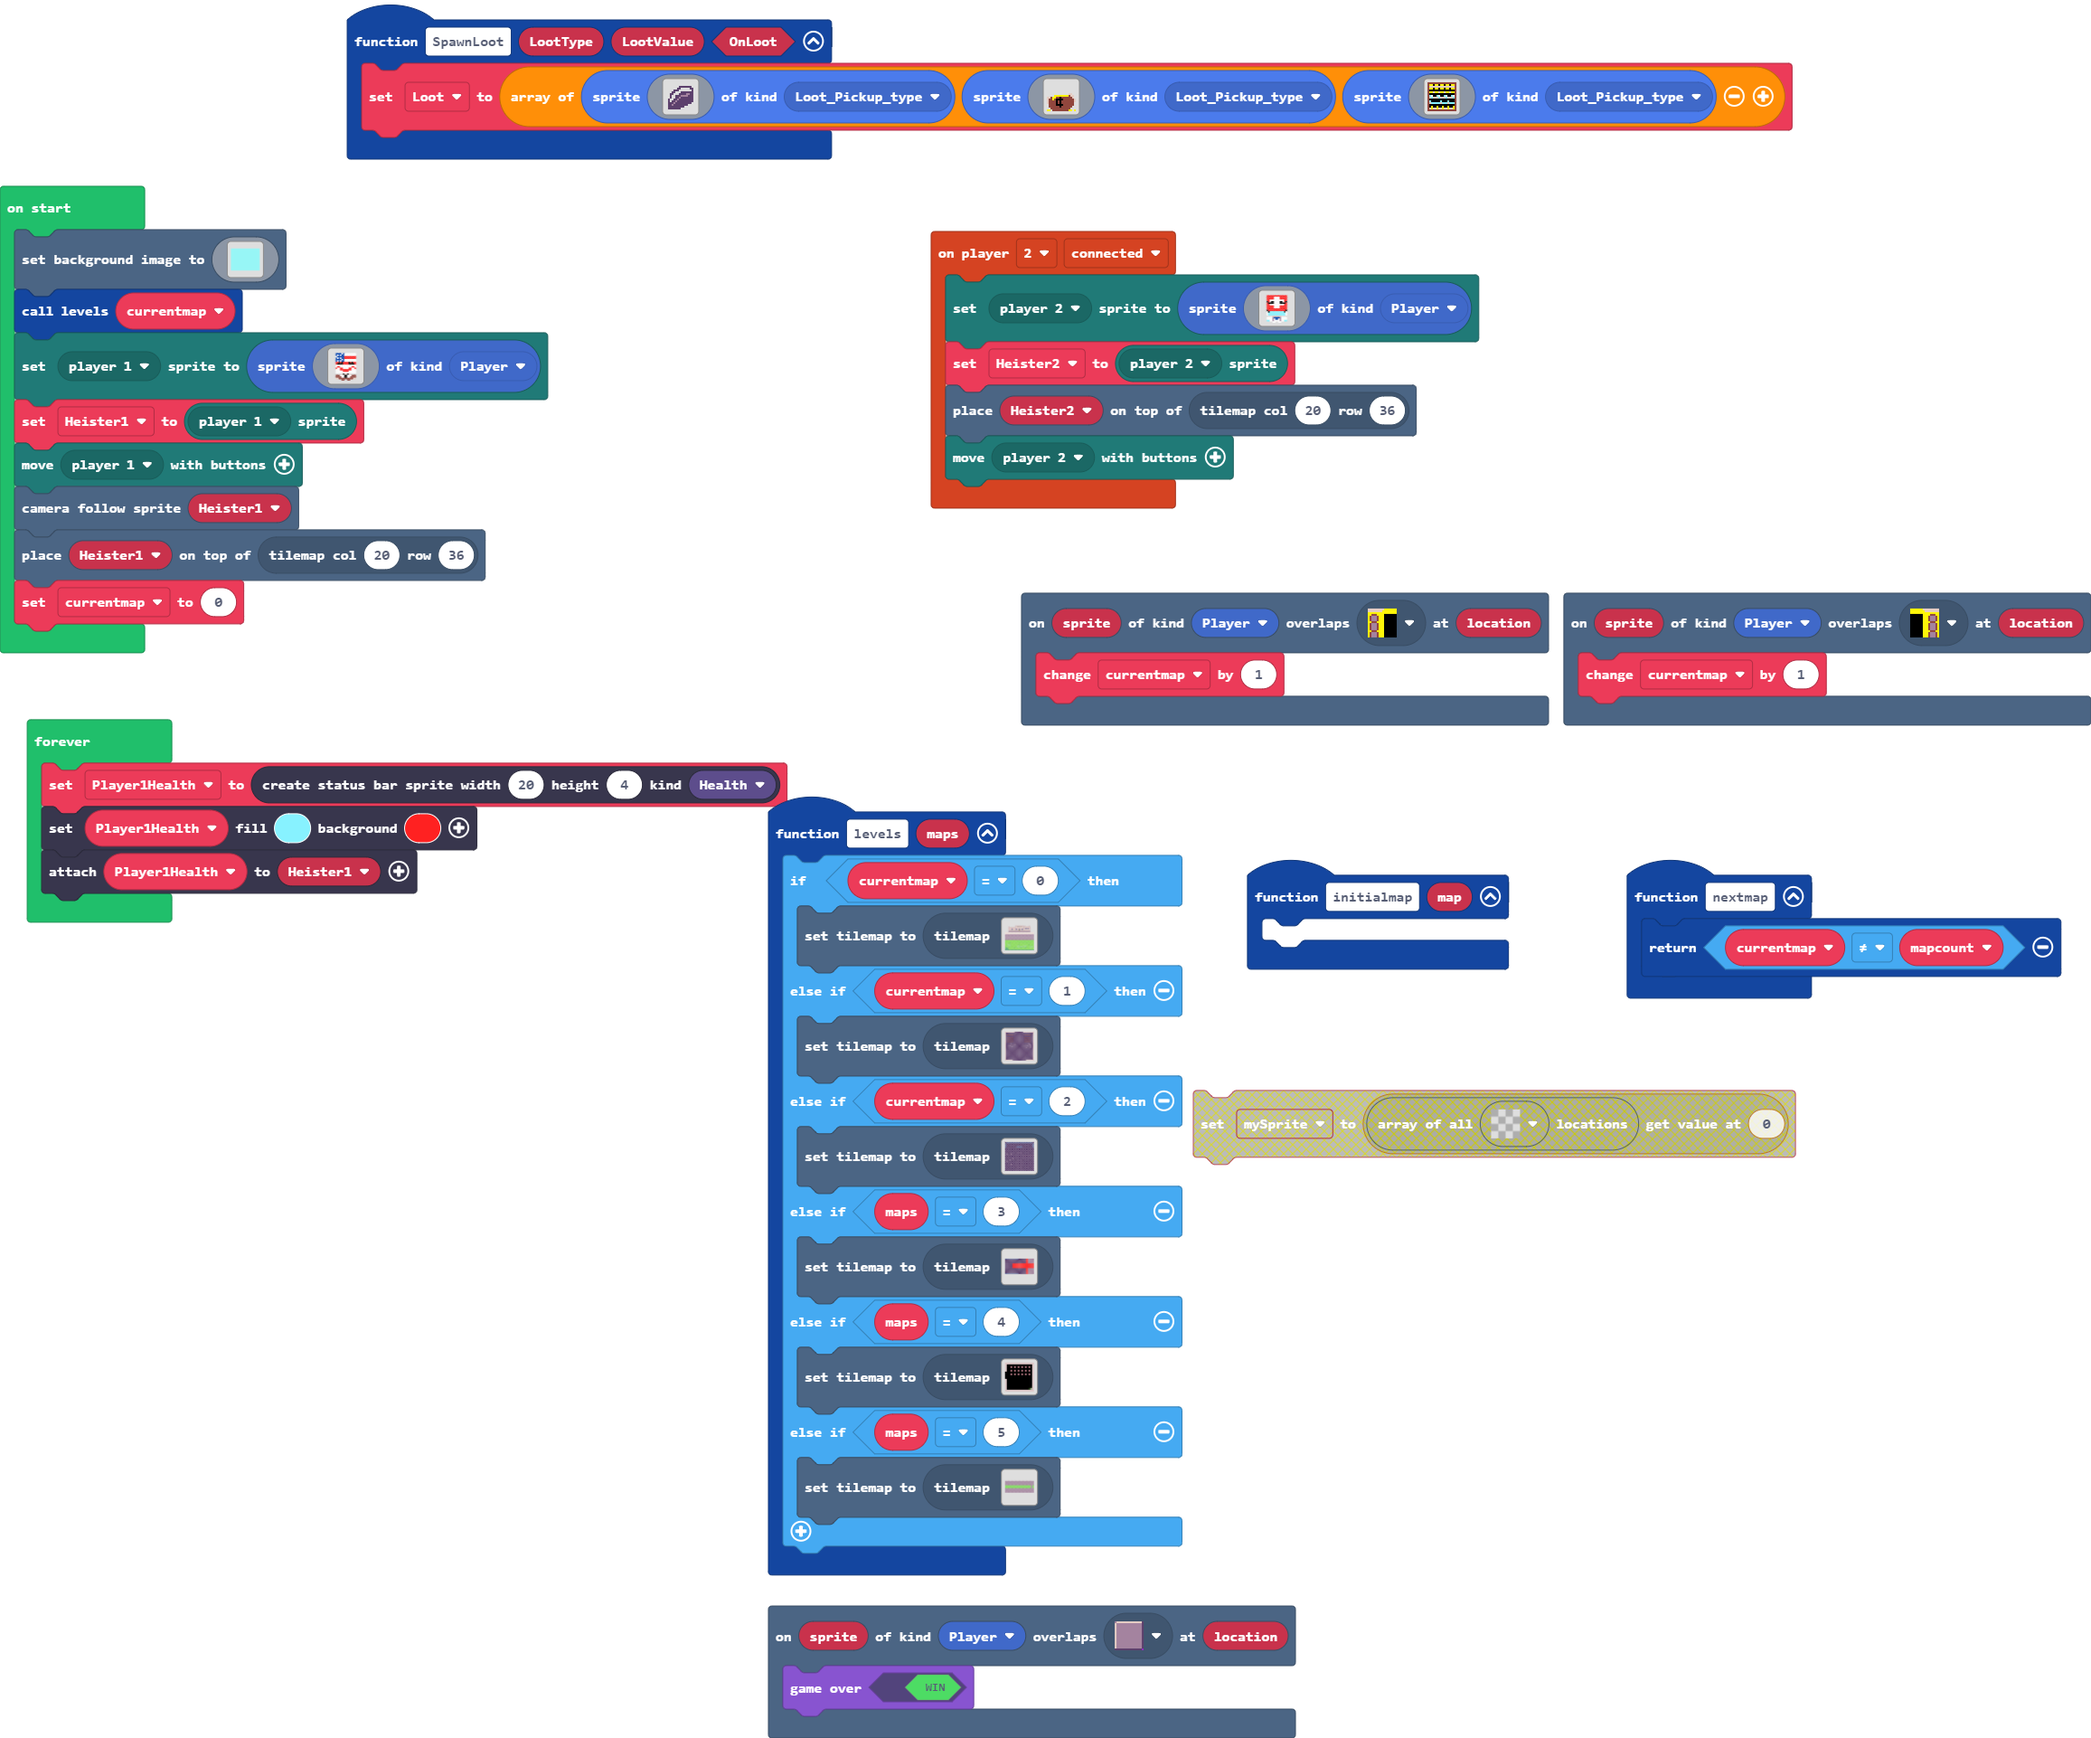
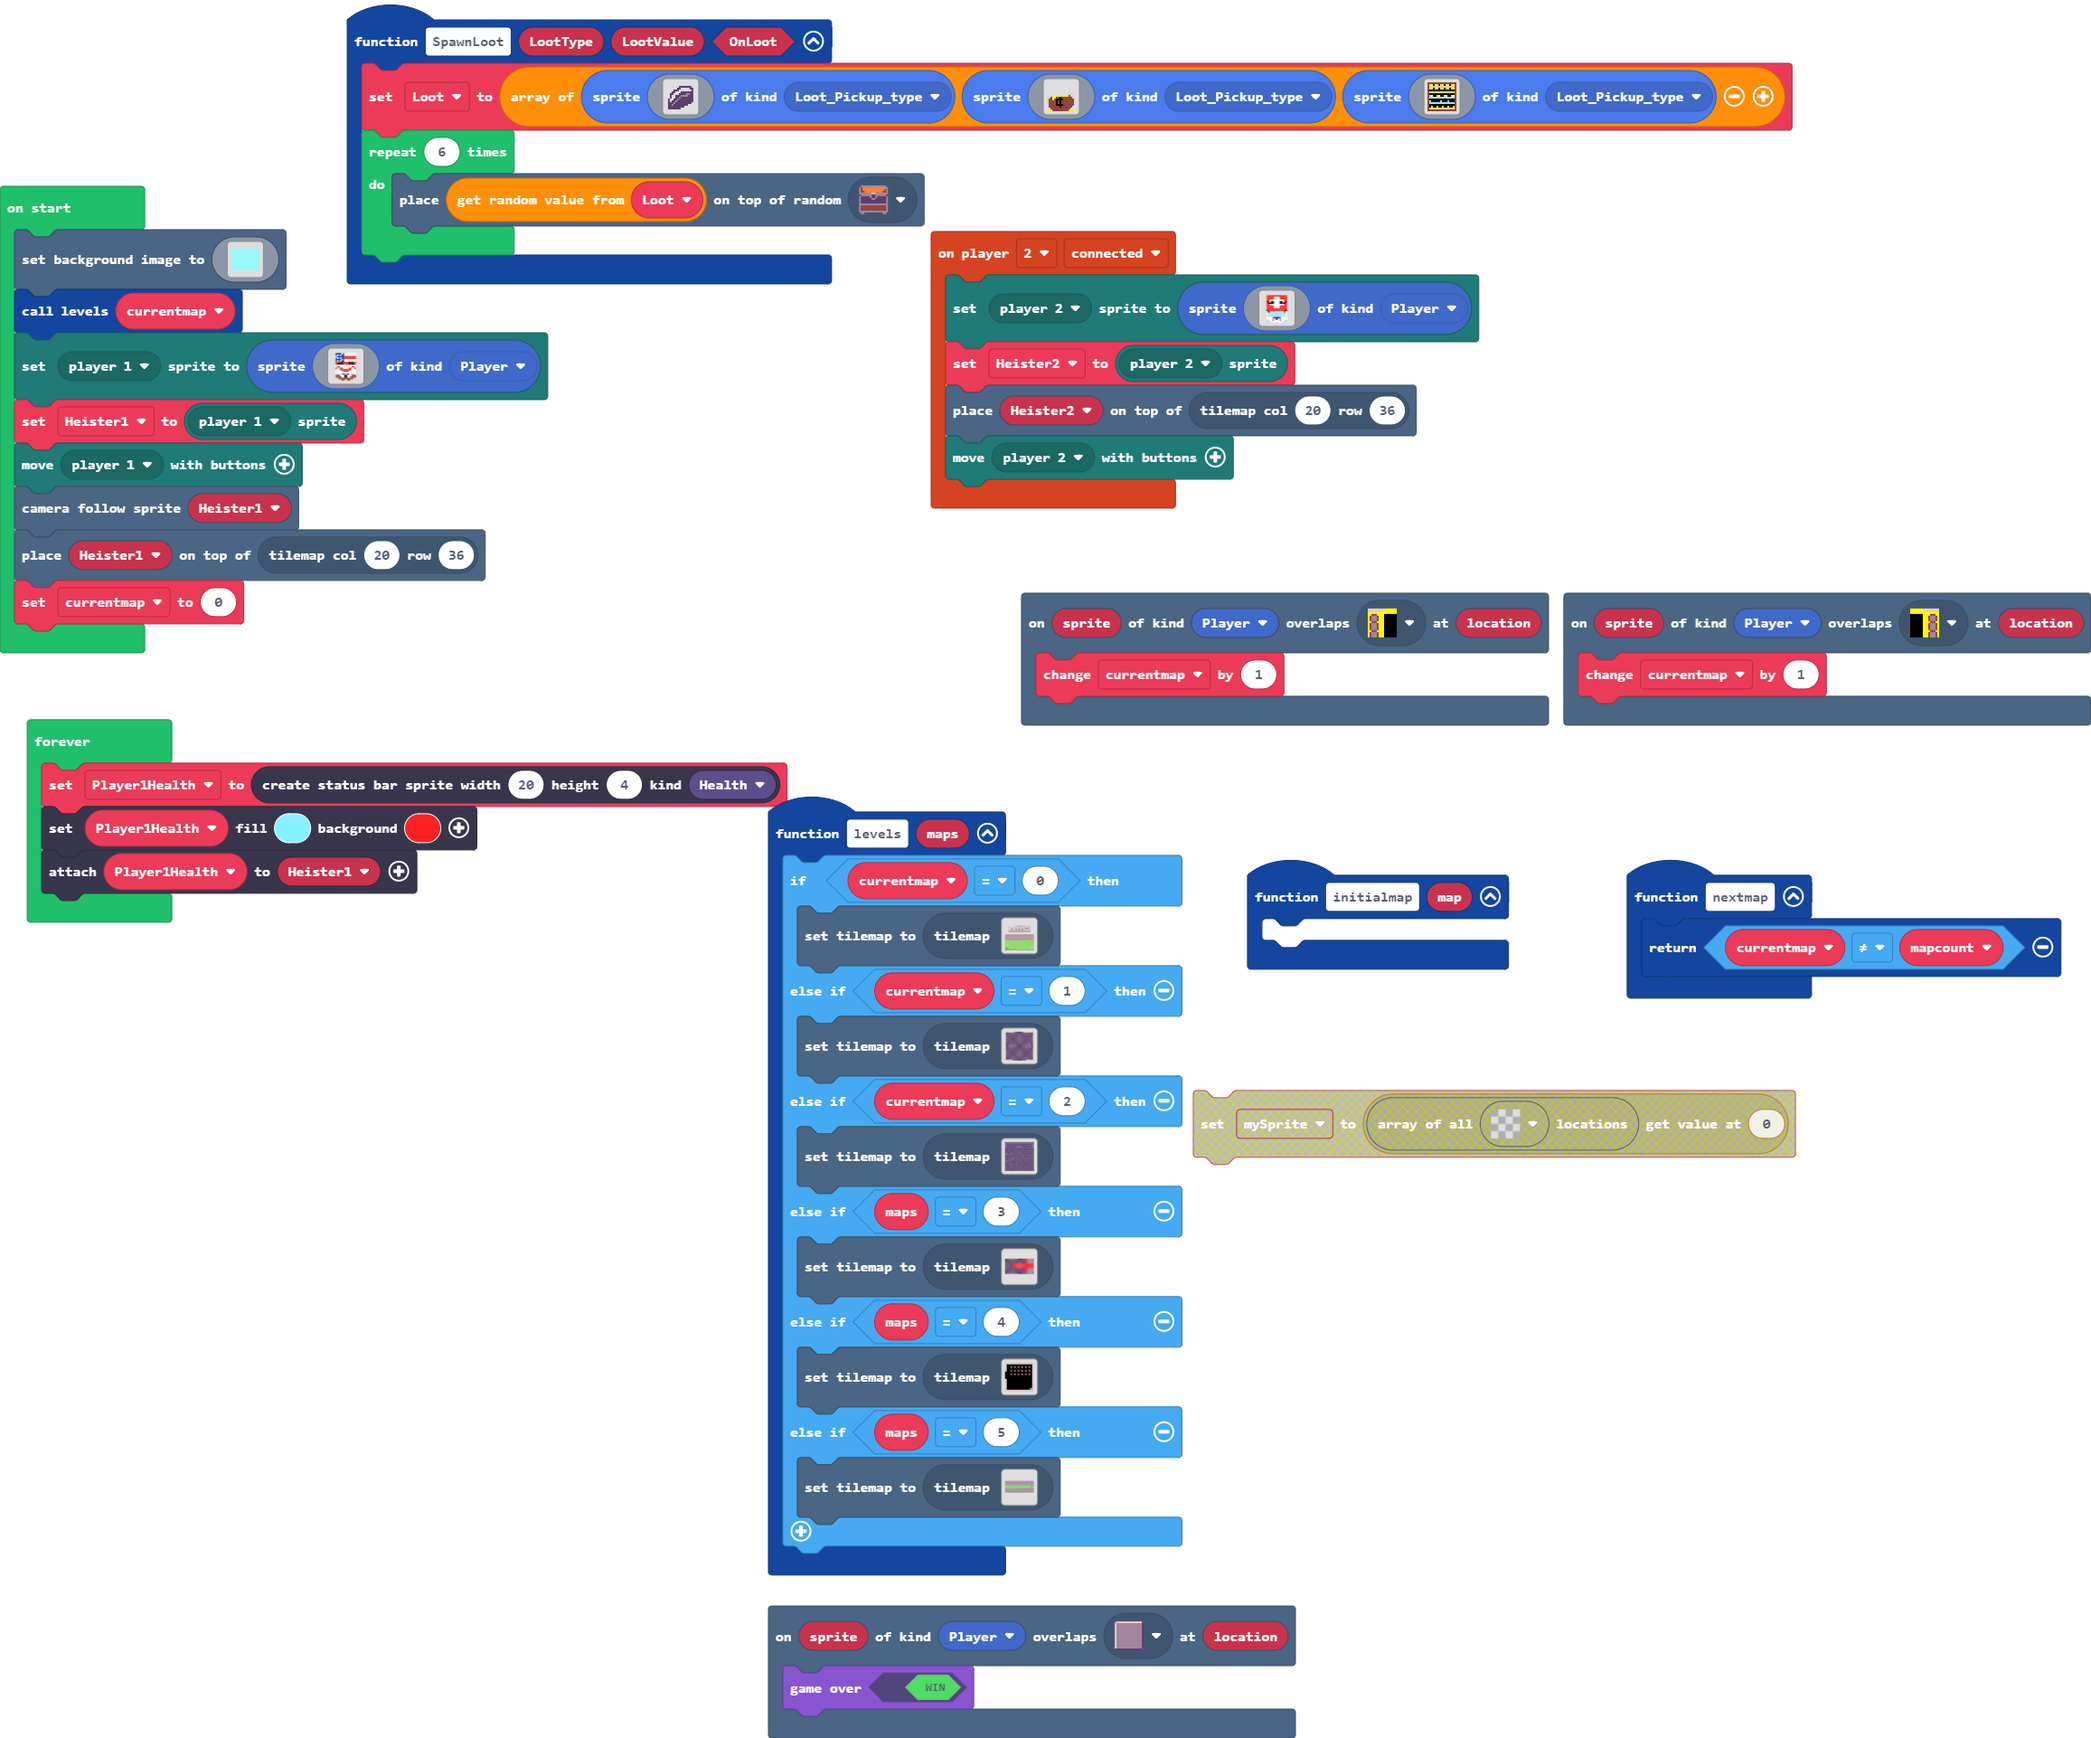
Update main.blocks, main.ts

Changed region(s): [[0.1556, 0.0624, 0.4669, 0.1873]]

diff --git a/main.ts b/main.ts
@@ -6,6 +6,9 @@ function initialmap (map: any[]) {
 }
 function SpawnLoot (LootType: string, LootValue: number, OnLoot: boolean) {
     Loot = [sprites.create(assets.image`Money_Bag`, SpriteKind.Loot_Pickup_type), sprites.create(assets.image`Bag_of_GOLD`, SpriteKind.Loot_Pickup_type), sprites.create(assets.image`Jewlery_Box`, SpriteKind.Loot_Pickup_type)]
+    for (let index = 0; index < 6; index++) {
+        tiles.placeOnRandomTile(Loot._pickRandom(), sprites.dungeon.chestOpen)
+    }
 }
 scene.onOverlapTile(SpriteKind.Player, assets.tile`myTile16`, function (sprite, location) {
     currentmap += 1
